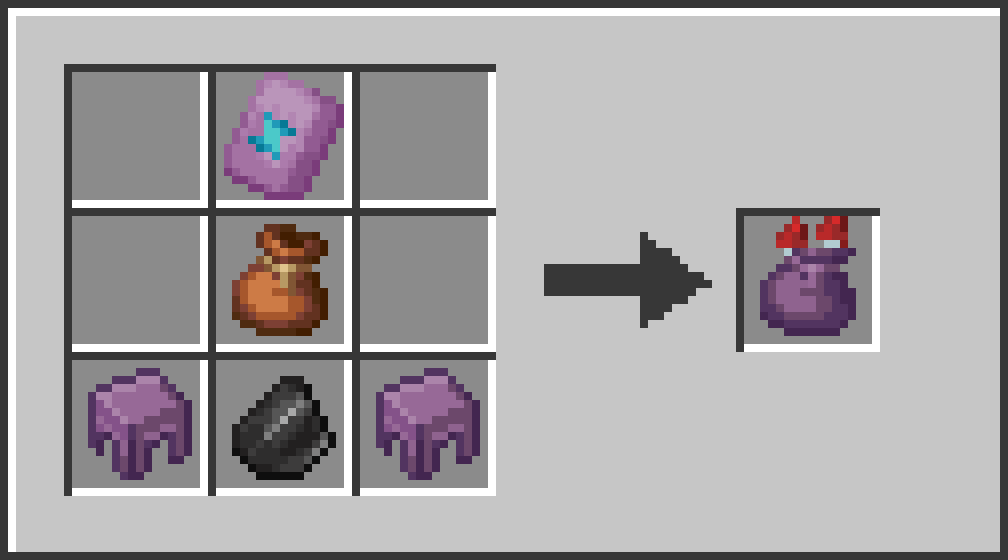
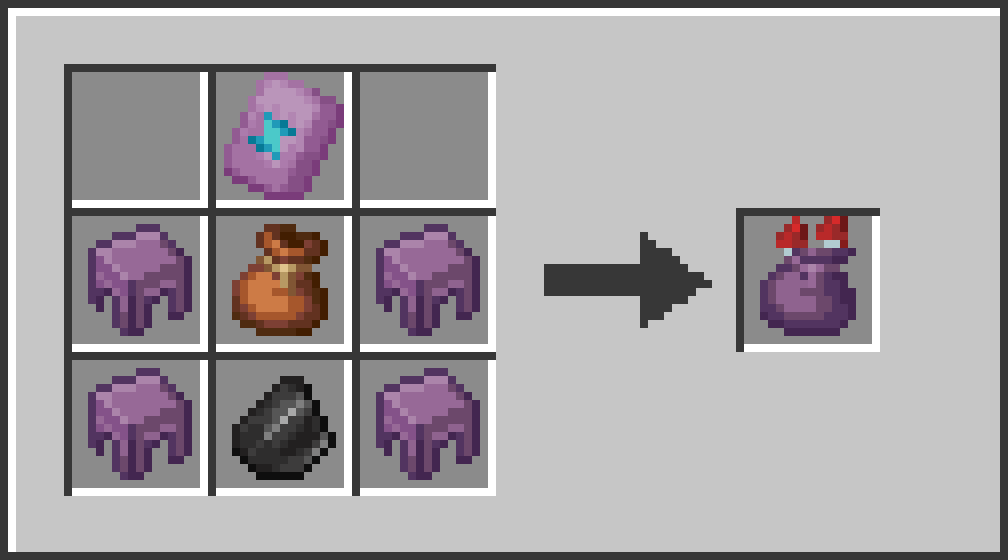
Recipe: trim over bundle, shulker shells beside the bundle and the flint

Changed region(s): [[0.0615, 0.3946, 0.2153, 0.6071], [0.369, 0.3946, 0.4921, 0.6071]]

diff --git a/README.md b/README.md
@@ -10,7 +10,7 @@ The Rocket Pouch holds up to **320 firework rockets** (5 stacks) in a single slo
 
 ![Rocket Pouch recipe](docs/recipe.png)
 
-Spire Armor Trim over a Bundle over Shulker Shell, Flint, Shulker Shell - shaped as shown.
+Spire Armor Trim at the top, a Bundle in the middle, a Flint at the bottom, and Shulker Shells on both sides of the Bundle and the Flint - shaped as shown.
 
 ## Usage
 

diff --git a/RELEASE_NOTES.md b/RELEASE_NOTES.md
@@ -1,3 +1,3 @@
 # 1.1.1
 
-- New recipe: Spire trim over a bundle over shulker shell, flint, shulker shell.
+- New recipe: Spire trim over a bundle, with shulker shells around it and around the flint.
